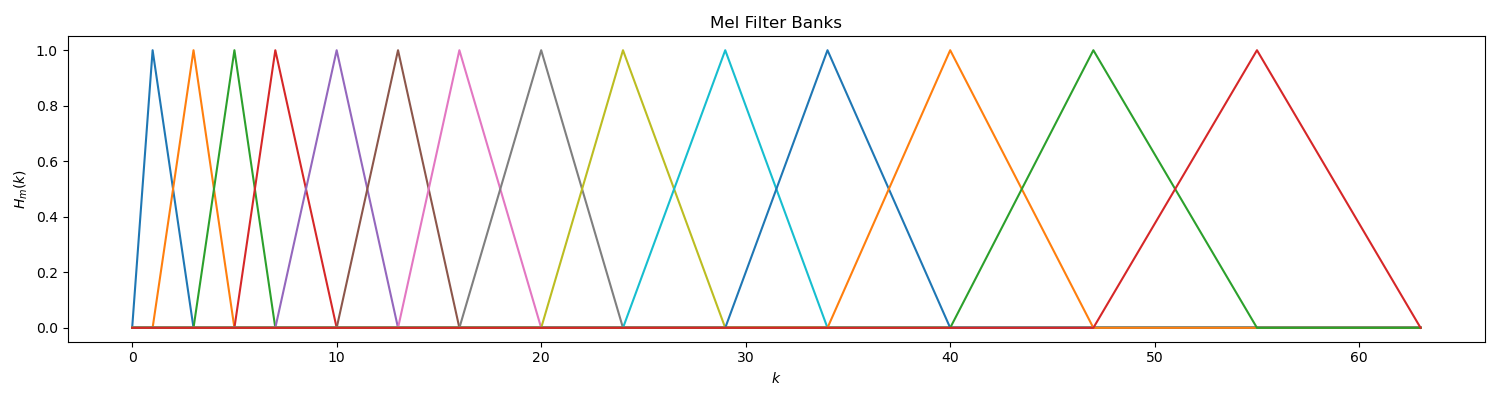
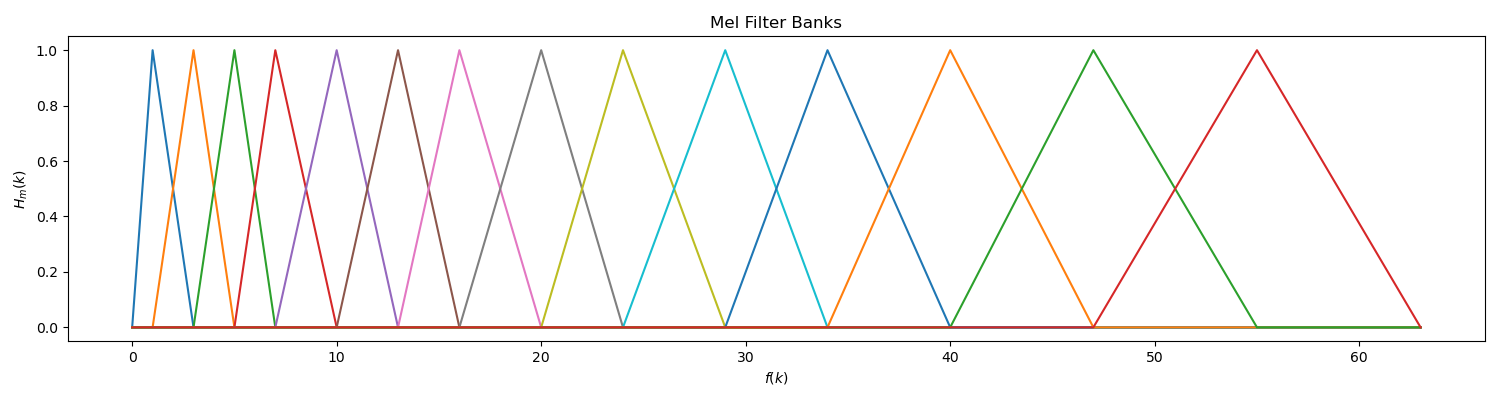
fix: minor fix figure

Changed region(s): [[0.0613, 0.81, 0.9813, 0.87], [0.4907, 0.93, 0.5213, 0.96]]

diff --git a/utils.py b/utils.py
@@ -162,7 +162,7 @@ def plot_mel_filters(output_path, y: np.ndarray) -> None:
 
     plt.figure(figsize=(15, 4))
     plt.title('Mel Filter Banks')
-    plt.xlabel(r'$k$')
+    plt.xlabel(r'$f(k)$')
     plt.ylabel(r'$H_m(k)$')
     for n in range(y.shape[0]):
         plt.plot(y[n])
